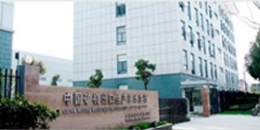
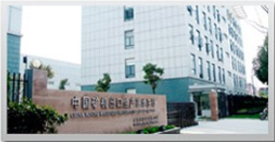
yeah!

diff --git a/index.html b/index.html
@@ -5,7 +5,6 @@
     <meta name="viewport" content="width=device-width, initial-scale=1.0">
     <meta http-equiv="X-UA-Compatible" content="ie=edge">
     <link rel="stylesheet" href="css/main.css" type="text/css" />
-    <link rel='stylesheet' href="css/style.css" type='text/css'>
     <title>Shanghai Zenith Company</title>
 </head>
 <body>
@@ -33,11 +32,11 @@
       <div class="tab-content">
         <div id="con">
             <div id="info-container">
-                <img src="img/pic1.png" alt=""/>
+                <img id="pic" src="img/pic1.png" alt=""/>
                 <div id="info">
                     <h4>About Zenith</h4>
-                    <p>Welcome to the Shanghai Zenith Crusher and Pulverizer internet site.Zenith is one of the biggest manufacturer in crushing and grinding industry in China.Our main product include Mobile Crusher,...</p>
-                    <p>Cone Crusher,Hammer Crusher,Vertical Shaft Impact Crusher,Ball Mill,Grinding Mill,Raymood Mill,MTM Medium Speed Trapezium Mill,Ultrafine Mill and other pertinent machines and equiments such as Vibrating Feeder,Vibrating Screen and sand washing machine.</p>
+                    <p id="first-para">Welcome to the Shanghai Zenith Crusher and Pulverizer internet site.Zenith is one of the biggest manufacturer in crushing and grinding industry in China.Our main product include Mobile Crusher,...</p>
+                    <p id="second-para">Cone Crusher,Hammer Crusher,Vertical Shaft Impact Crusher,Ball Mill,Grinding Mill,Raymood Mill,MTM Medium Speed Trapezium Mill,Ultrafine Mill and other pertinent machines and equiments such as Vibrating Feeder,Vibrating Screen and sand washing machine.</p>
                     <img src="img/gear.png" alt=""/><a href="#">More details</a>    
                 </div>    
             </div>
@@ -160,7 +159,6 @@
         &copy; Copyright 2000-2008,La societe de zenith de Shanghai.All Rights Reservd Telephone:0086-21-58386256 0086-21-58386258
     </div>
     <script src='js/jquery.min.js'></script>
-    <script src="js/index.js"></script>
     <script src="js/main.js"></script>
 </body>
 </html>

diff --git a/css/main.css b/css/main.css
@@ -39,6 +39,100 @@
     margin: 0 auto;
 }
 
+.tab-wrapper {
+    margin: 0 auto;
+    width: 1003px;
+}
+  
+  .tab-menu{
+    width: 1003px;
+    height: 36px;
+    background-color: #a62720;
+    font-size: 13px;
+}
+  
+  .tab-menu li {
+    position:relative;
+    color:#f7f7f7;
+    display: inline-block;
+    width: 87px;
+    margin-top: 5px;
+    margin-left: 22px;
+    text-align: center;
+    line-height: 33px;
+    cursor:pointer;
+    z-index:0;
+}
+  
+  .tab-menu li:nth-child(2){
+    width: 105px;
+}
+  
+  .tab-menu li:nth-child(3){
+    width: 142px;
+}
+  
+  /* .tab-menu li:hover {
+    color:black;
+    background-color: #f7f7f7;
+    border-radius: 5px 5px 0px 0px;
+} */
+  
+  .tab-menu li.active {
+    color:black;
+    background-color: #f7f7f7;
+    border-radius: 5px 5px 0px 0px;
+}
+  
+  .tab-content>div {
+    background-color: #fff;
+    box-sizing:border-box;   
+    min-height:200px;
+}
+  
+  /* .line {
+    position:absolute;
+    width: 0;
+    height: 7px;
+    background-color: aqua;
+    top: 0;
+    left: 0;
+} */
+  
+  #con{
+    position: absolute;
+    width: 959px;
+    height: 1078px;
+    margin-left: 22px;
+}
+
+#info-container{
+    margin-top: 20px;
+}
+
+#pic{
+    width: 275px;
+    height: 142px;
+    margin-left: 48px;
+    margin-top: 12px;
+}
+
+#info{
+    width: 585px;
+    height: 201px;
+    float: right;
+}
+
+#info h4{
+    color: #a62720;
+}
+
+#info p{
+    font-size: 12px;
+}
+
+
+
 #footer{
     width: 1003px;
     height: 56px;

diff --git a/js/main.js b/js/main.js
@@ -1,0 +1,33 @@
+$(document).ready(function() {
+  
+    var $wrapper = $('.tab-wrapper'),
+        $allTabs = $wrapper.find('.tab-content > div'),
+        $tabMenu = $wrapper.find('.tab-menu li');
+        // $line = $('<div class="line"></div>').appendTo($tabMenu);
+    
+    $allTabs.not(':first-of-type').hide();  
+    $tabMenu.filter(':first-of-type').find(':first').width('100%')
+    
+    $tabMenu.each(function(i) {
+      $(this).attr('data-tab', 'tab'+i);
+    });
+    
+    $allTabs.each(function(i) {
+      $(this).attr('data-tab', 'tab'+i);
+    });
+    
+    $tabMenu.on('click', function() {
+      
+      var dataTab = $(this).data('tab'),
+          $getWrapper = $(this).closest($wrapper);
+      
+      $getWrapper.find($tabMenu).removeClass('active');
+      $(this).addClass('active');
+      
+      //$getWrapper.find('.line').width(0);
+      //$(this).find($line).animate({'width':'100%'}, 'fast');
+      $getWrapper.find($allTabs).hide();
+      $getWrapper.find($allTabs).filter('[data-tab='+dataTab+']').show();
+    });
+  
+  });//end ready
